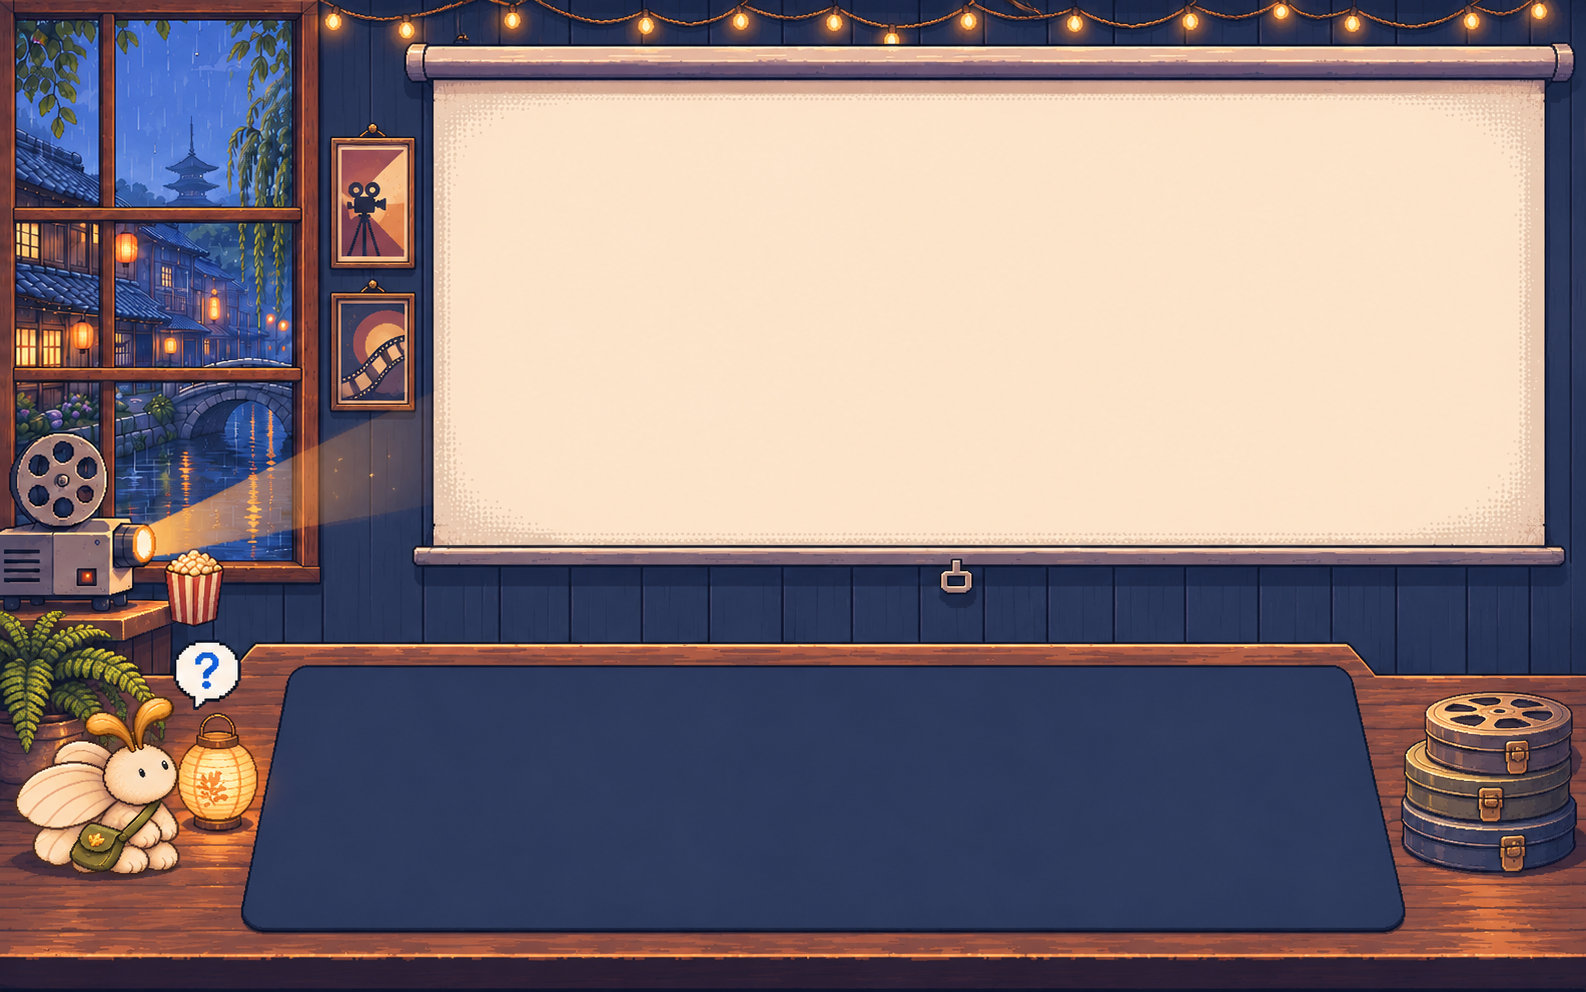
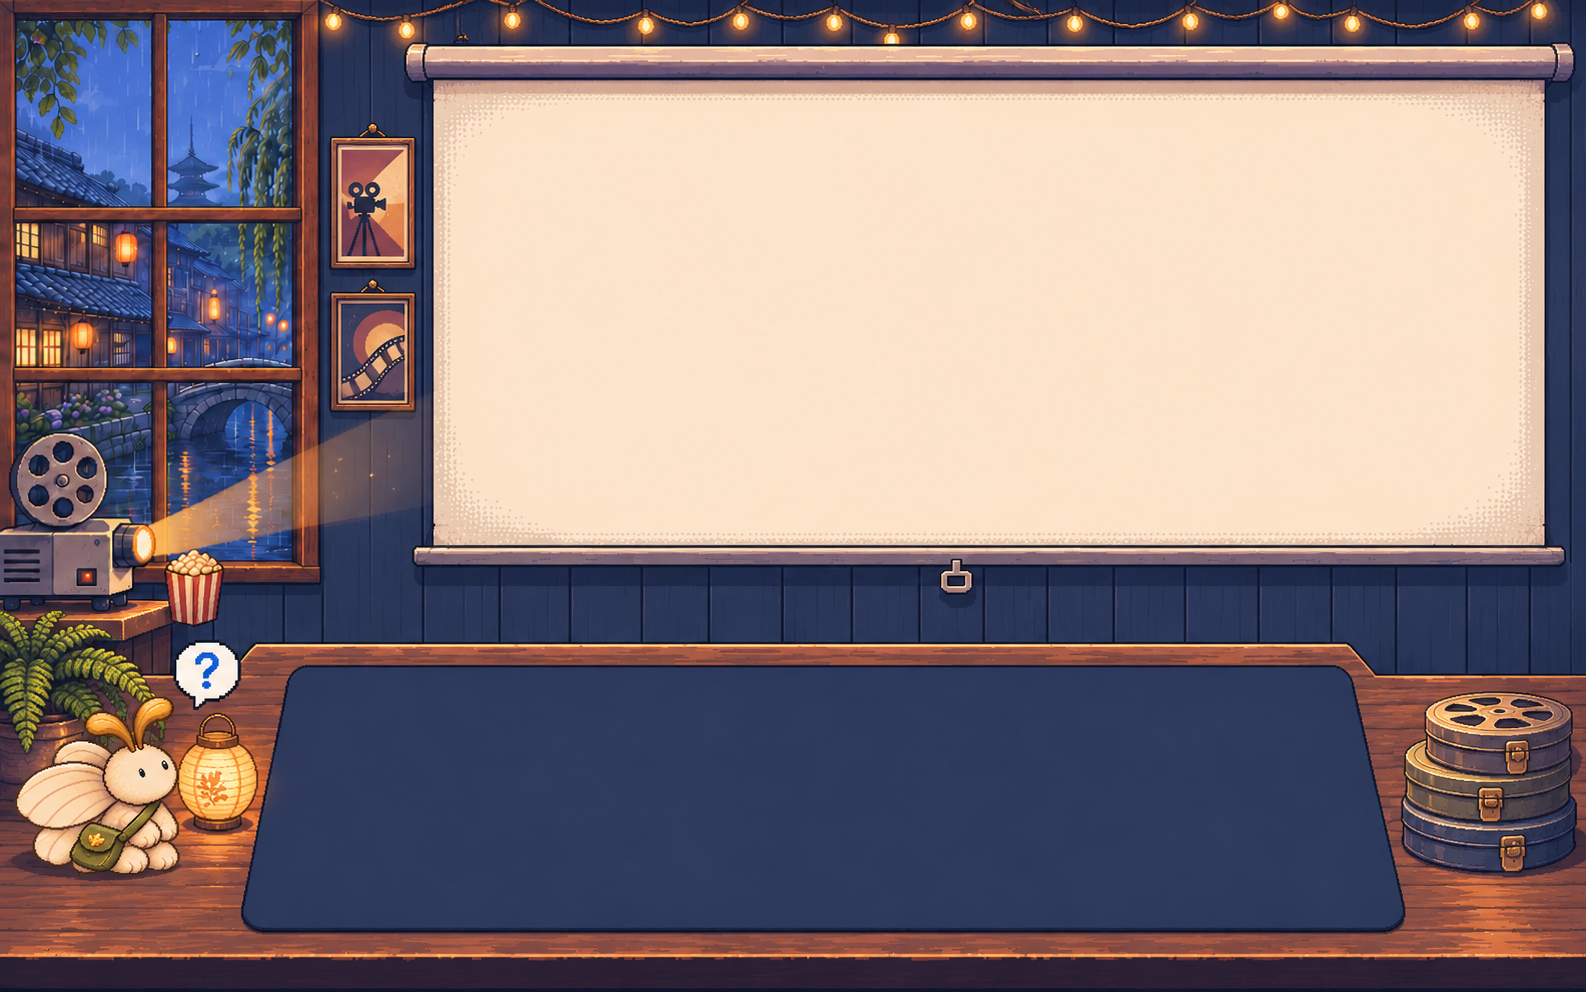
docs(design): centre the window mullion in the Canal mockup
The upright bar of the Canal window sat 50 px left of the glass centre. A second Codex pass moved it to the centre, and only the window region was pasted back. The pane columns are now 142 and 136 px wide.

Changed region(s): [[0.0, 0.0, 0.1854, 0.5938], [0.0, 0.3438, 0.0309, 0.4062], [0.1545, 0.4375, 0.1854, 0.4688]]

diff --git a/docs/design/live-room/mockup/provenance.md b/docs/design/live-room/mockup/provenance.md
@@ -22,4 +22,5 @@ Findings:
 - Harbor and Canal place new objects at the desk ends. Today the companion sits at the left end and the notebook button sits at the right end. The layout must keep both clear of unlocked objects (#226).
 - The Canal mockup moved the two posters between the window and the screen, and its navy mat lost the stitched edge of today's mat. The Harbor mat lost its torn-paper edge. The shipped mats stay as they are unless Derek wants the new ones.
 - The first Canal mockup copied today's window lattice, which has a slanting top bar and uneven panes. Derek asked to fix it. Codex redrew the lattice from the first mockup with `prompt-canal-window.md` (original `~/.codex/generated_images/01a1ddb9-9457-7ba1-9ae9-02be956b198a/exec-53b03ff0-470b-4904-a164-90613f168d5f.png`, 1561x1008). `align_window.py` fitted its scale and offset to the first mockup, a uniform 0.984 scale. Only the window, the box from (0, 0) to (324, 583), was pasted back with a 2 px soft edge. The rest of `canal-room.png` is the first mockup, unchanged. The pasted window is resampled, so it is a little softer than the rest. Today's shipped Canal background has the same broken lattice.
+- The upright bar then sat 50 px left of the glass centre. Derek pointed it out. A second Codex pass with `prompt-canal-mullion.md` (original `~/.codex/generated_images/01a1ddd5-02c7-7ff3-ac76-28ad0df17171/exec-d756c50c-317c-463a-b38f-1ada739696ea.png`, 1585x992) moved it, and the same box was aligned and pasted back. The bar now covers x 156 to 165 on glass from x 14 to 301, 3 px right of true centre, so the pane columns are 142 and 136 px wide.
 - `harbor-room.png` is 1585 px wide, one pixel short of the 1586 plate.

diff --git a/docs/design/live-room/mockup/prompt-canal-mullion.md b/docs/design/live-room/mockup/prompt-canal-mullion.md
@@ -1,0 +1,7 @@
+Use your built-in image generation tool (not code, not SVG, not a script) to edit the attached image `canal-room.png` and generate ONE image of the same size, 1586x992. Save the generated PNG unchanged as `fixed.png` in the current folder. Do not draw or edit anything with code. In your final message give the saved path, the original path of the generated file, and the image's pixel size.
+
+Edit: fix ONLY the vertical bar (mullion) of the wooden window on the left. Today it sits far left of centre, so the left column of panes is about half as wide as the right column.
+
+Move the vertical bar to the exact horizontal centre of the window's glass, so the left and right columns of panes are exactly the same width. It stays straight and upright, runs from the top of the frame to the sill, keeps the same thickness and warm brown painted wood, and meets the two level horizontal bars with square joints. Fill the place where the bar used to be with the view that belongs behind it (the rainy canal town, roofs, lanterns, sky, ivy).
+
+Keep everything else exactly the same: the outer frame, the two level horizontal bars and three equal rows, the view through the glass, the ivy at the top, the projector, its light beam and the popcorn box in front of the window, the posters, the wall, the screen, the desk, the companion and every other object, in the same positions, the same soft painted HD pixel-art style, palette and resolution. No text.
